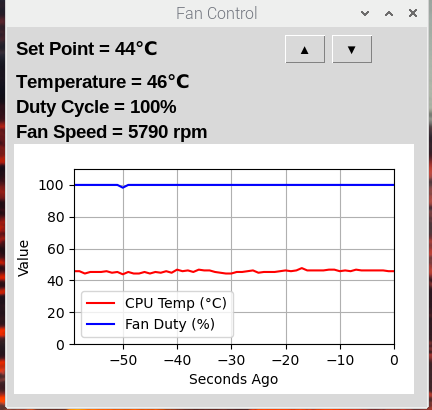
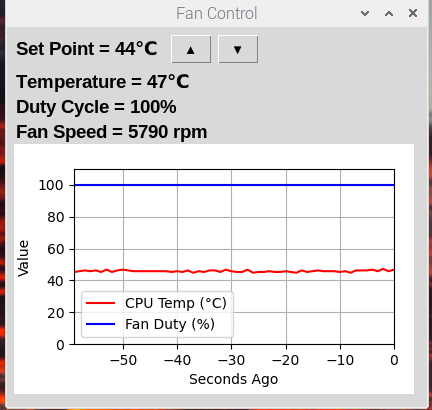
Move setpoint up/down buttons flush next to label; update screenshot

diff --git a/fanController.py b/fanController.py
@@ -186,17 +186,17 @@ if __name__ == "__main__":
 
         # Create the Setpoint label and Up/Down buttons
         desired_temperature = GetSetPointFromConfigFile()
-        lbl_setpoint = tk.Label(master=frame, font=("Arial 14 bold"))
-        lbl_setpoint.grid(column=0, row=0, sticky="w")
+        setpoint_frame = tk.Frame(master=frame)
+        setpoint_frame.grid(row=0, column=0, columnspan=3, sticky="w")
+
+        lbl_setpoint = tk.Label(master=setpoint_frame, font=("Arial 14 bold"))
+        lbl_setpoint.pack(side="left")
         DisplaySetPoint(desired_temperature)
 
-        btn_frame = tk.Frame(master=frame)
-        btn_frame.grid(row=0, column=1, columnspan=2)
+        btn_increase = tk.Button(master=setpoint_frame, text=up_arrow, font=("Arial", 10), width=2, command=UpArrowClickedEvent)
+        btn_increase.pack(side="left", padx=(10, 5))
 
-        btn_increase = tk.Button(master=btn_frame, text=up_arrow, font=("Arial", 10), width=2, command=UpArrowClickedEvent)
-        btn_increase.pack(side="left", padx=(0, 5))
-
-        btn_decrease = tk.Button(master=btn_frame, text=down_arrow, font=("Arial", 10), width=2, command=DownArrowClickedEvent)
+        btn_decrease = tk.Button(master=setpoint_frame, text=down_arrow, font=("Arial", 10), width=2, command=DownArrowClickedEvent)
         btn_decrease.pack(side="left")
 
         # Create the Current Temperature label